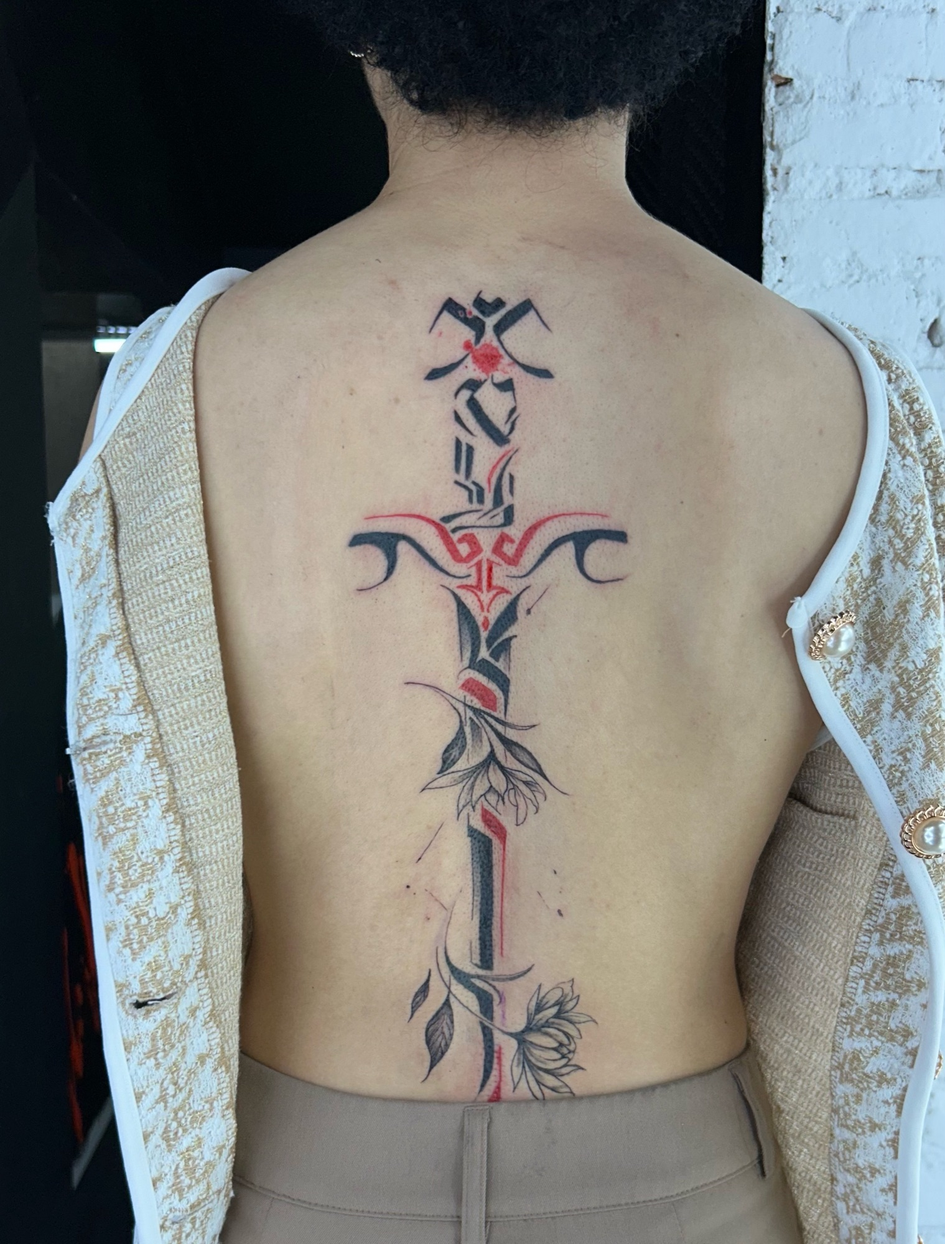
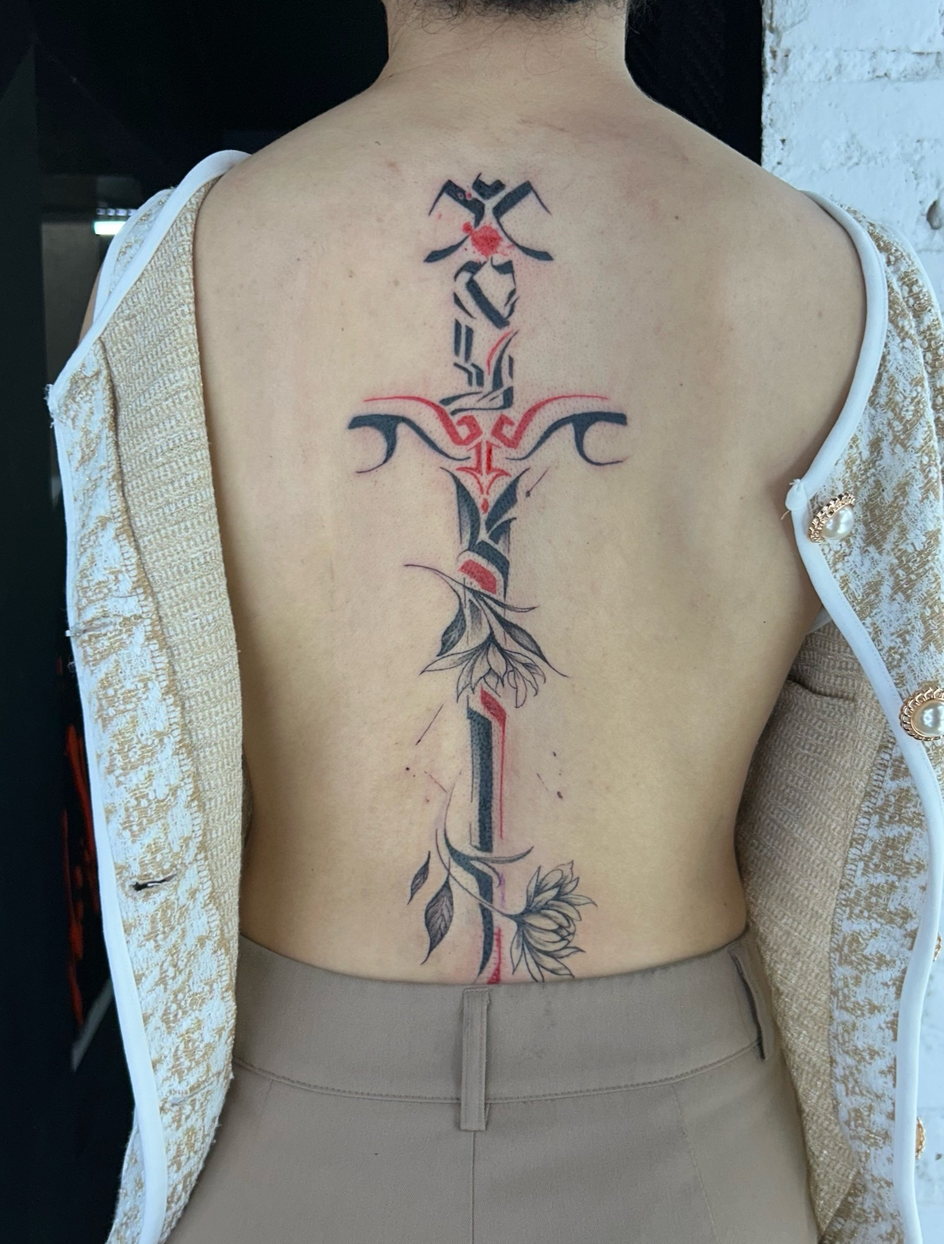
A pergunta sobe pra depois da capa, 3ª opção vira primeira tattoo, capa mais pra baixo, foto nova do Eixo

diff --git a/index.html b/index.html
@@ -166,7 +166,12 @@ section{padding:48px 0}
 .fim p{margin-top:20px;font-size:clamp(18px,2vw,21px);color:var(--cinza);max-width:38ch}
 .mimos{list-style:none;display:flex;flex-wrap:wrap;gap:8px;margin-top:20px}
 .mimos li{font-size:13px;letter-spacing:.04em;padding:8px 13px;border:1px solid var(--linha);border-radius:999px;color:var(--off)}
-.escolha{margin-top:34px;max-width:720px}
+.escolha{max-width:720px}
+.pergunta .cabeca{max-width:720px}
+.pergunta h2 .ponto{color:var(--ciano)}
+.sr{position:absolute;width:1px;height:1px;overflow:hidden;clip:rect(0 0 0 0);white-space:nowrap}
+.inspira{display:inline-block;margin-top:22px;font-size:14px;color:var(--cinza);text-decoration:underline;text-underline-offset:3px}
+.inspira:hover{color:var(--off)}
 .escolha fieldset{border:0;padding:0;margin:0;min-width:0}
 .escolha legend{padding:0;margin-bottom:14px}
 .opcoes{display:grid;gap:10px}
@@ -181,11 +186,10 @@ section{padding:48px 0}
 .opcao .det{display:block;margin-top:4px;font-size:14px;color:var(--cinza)}
 .resposta{margin-top:18px;padding:22px;border-radius:14px;background:var(--preto-2);border:1px solid var(--linha)}
 .resposta h3{font-family:var(--display);font-weight:400;text-transform:uppercase;font-size:clamp(26px,3.6vw,36px);line-height:1.18}
-.fim .resposta p{margin-top:10px;font-size:16px;color:var(--cinza);max-width:52ch}
+.resposta p{margin-top:10px;font-size:16px;color:var(--cinza);max-width:52ch}
 .resposta .btn{margin-top:18px}
 .resposta small{display:block;margin-top:12px;font-size:13px;color:var(--cinza)}
-.fim .fim-ig{margin-top:28px;font-size:14px}
-.fim-ig a{color:var(--off);text-decoration:underline;text-underline-offset:3px}
+.fim .acoes{margin-top:34px}
 
 /* ---------- rodapé ---------- */
 footer{border-top:1px solid var(--linha);padding:36px 0 120px;font-size:14px;color:var(--cinza)}
@@ -284,6 +288,30 @@ dialog::backdrop{background:rgba(6,6,6,.96)}
     </div>
   </section>
 
+  <!-- A PERGUNTA: o que vamos tatuar? (as opções moram no conteudo.js) -->
+  <section class="pergunta" id="orcamento">
+    <div class="wrap">
+      <div class="cabeca surge">
+        <h2 class="titulo">O que vamos tatuar<span class="ponto">?</span></h2>
+        <span class="olho">Toca numa opção</span>
+      </div>
+      <form class="escolha surge" data-escolha onsubmit="return false">
+        <fieldset>
+          <legend class="sr">Qual projeto você quer fazer?</legend>
+          <div class="opcoes" data-opcoes></div>
+        </fieldset>
+        <div class="resposta" data-resposta hidden aria-live="polite">
+          <h3></h3>
+          <p></p>
+          <a class="btn btn-cheio" href="https://wa.me/5562982864646" target="_blank" rel="noopener"><svg><use href="#i-zap"/></svg><span>Pedir orçamento</span></a>
+          <small>Valor e data na mesma conversa.</small>
+        </div>
+        <noscript><a class="btn btn-cheio" href="https://wa.me/5562982864646" target="_blank" rel="noopener">Pedir orçamento no WhatsApp</a></noscript>
+      </form>
+      <a class="inspira" href="#trabalho">Ainda pensando? Olha o trabalho primeiro ↓</a>
+    </div>
+  </section>
+
   <!-- O TRABALHO -->
   <section id="trabalho">
     <div class="wrap">
@@ -364,26 +392,16 @@ dialog::backdrop{background:rgba(6,6,6,.96)}
   </section>
 
   <!-- FIM -->
-  <section class="fim" id="orcamento">
+  <section class="fim">
     <div class="wrap">
       <div class="surge">
         <h2 class="titulo">Sabe aquela ideia que você carrega há anos<span style="color:var(--ciano)">?</span></h2>
         <p>Conta ela pra mim. Eu te mostro a melhor forma de encaixar ela no seu corpo.</p>
       </div>
-      <form class="escolha surge" data-escolha onsubmit="return false">
-        <fieldset>
-          <legend class="olho">O que vamos tatuar? · toca numa opção</legend>
-          <div class="opcoes" data-opcoes></div>
-        </fieldset>
-        <div class="resposta" data-resposta hidden aria-live="polite">
-          <h3></h3>
-          <p></p>
-          <a class="btn btn-cheio" href="https://wa.me/5562982864646" target="_blank" rel="noopener"><svg><use href="#i-zap"/></svg><span>Pedir orçamento</span></a>
-          <small>Valor e data na mesma conversa.</small>
-        </div>
-        <noscript><a class="btn btn-cheio" href="https://wa.me/5562982864646" target="_blank" rel="noopener">Pedir orçamento no WhatsApp</a></noscript>
-      </form>
-      <p class="fim-ig">Quer ver mais antes? <a data-ig href="https://instagram.com/ocravejado" target="_blank" rel="noopener">@ocravejado</a></p>
+      <div class="acoes surge">
+        <a class="btn btn-cheio" href="#orcamento">Pedir orçamento</a>
+        <a class="btn btn-vazio" data-ig href="https://instagram.com/ocravejado" target="_blank" rel="noopener">@ocravejado</a>
+      </div>
     </div>
   </section>
 

diff --git a/conteudo.js b/conteudo.js
@@ -23,7 +23,7 @@ window.SITE = {
     { texto: "Guest em São Paulo · 19 a 22/11", mensagem: "Oi, Felipe! Vim pelo seu site. Vi que você vai estar em São Paulo de 19 a 22/11 e quero tatuar." }
   ],
 
-  // A PERGUNTA DO FIM ("O que vamos tatuar?"). A pessoa toca numa opção, aparece a resposta
+  // A PERGUNTA ("O que vamos tatuar?"), logo depois da capa. A pessoa toca numa opção, aparece a resposta
   // e o botão manda uma mensagem diferente no WhatsApp: você já sabe o tipo de projeto antes de abrir.
   opcoes: [
     { tipo: "Peça nova", titulo: "Tenho uma ideia e quero ver onde ela encaixa", detalhe: "Pronta ou não. O lugar a gente acha junto.",
@@ -32,9 +32,9 @@ window.SITE = {
     { tipo: "Projeto grande", titulo: "Quero fechar um braço, as costas ou a perna", detalhe: "Uma peça só, ocupando a região inteira.",
       resposta: "Projeto grande se planeja inteiro.", texto: "Antes da primeira sessão, a gente define o encaixe do todo e quantas sessões vão ser. Cada parte já nasce no lugar certo.",
       botao: "Quero fechar uma região", mensagem: "Oi, Felipe! Vim pelo seu site e quero fechar uma região inteira (braço, costas ou perna)." },
-    { tipo: "Junto das que já tenho", titulo: "Quero uma que converse com as tattoos que já tenho", detalhe: "A nova entra no espaço que sobrou, combinando com o que já está ali.",
-      resposta: "A nova tem que conversar com as antigas.", texto: "Me manda uma foto de como está hoje. Eu te mostro onde a nova entra e como ela se liga ao que você já tem.",
-      botao: "Quero encaixar com as minhas", mensagem: "Oi, Felipe! Vim pelo seu site. Já tenho tattoos e quero uma nova que converse com elas." }
+    { tipo: "Primeira tattoo", titulo: "É minha primeira tattoo", detalhe: "Não precisa saber o quê nem onde. A gente começa pela conversa.",
+      resposta: "A primeira a gente faz com calma.", texto: "Me conta o que te dá vontade de tatuar, mesmo que ainda seja só uma ideia solta. Se preferir, vem conhecer o studio antes, sem compromisso.",
+      botao: "Quero fazer a minha primeira", mensagem: "Oi, Felipe! Vim pelo seu site. É minha primeira tattoo e queria conversar." }
   ],
 
   // O Uber pro studio (mesmo destino do cravejado.art.br)
@@ -46,7 +46,7 @@ window.SITE = {
   // A GALERIA. Não mexe aqui: ela é escrita sozinha a partir da pasta
   // 5 TATTOOS/GALERIA DO SITE, na Torre. Muda a pasta e pede pro VIVO atualizar.
   galeria: [
-    { foto: "o-eixo",             v: "7eb538", nome: "O Eixo", estilo: "Cravejado" },
+    { foto: "o-eixo",             v: "226d89", nome: "O Eixo", estilo: "Cravejado" },
     { foto: "o-zeus",             v: "224772", nome: "O Zeus", estilo: "Realismo" },
     { foto: "a-fera",             v: "3c30bc", nome: "A Fera", estilo: "Cravejado" },
     { foto: "o-zeca",             v: "ffad15", nome: "O Zeca", estilo: "Realismo · pet" },
